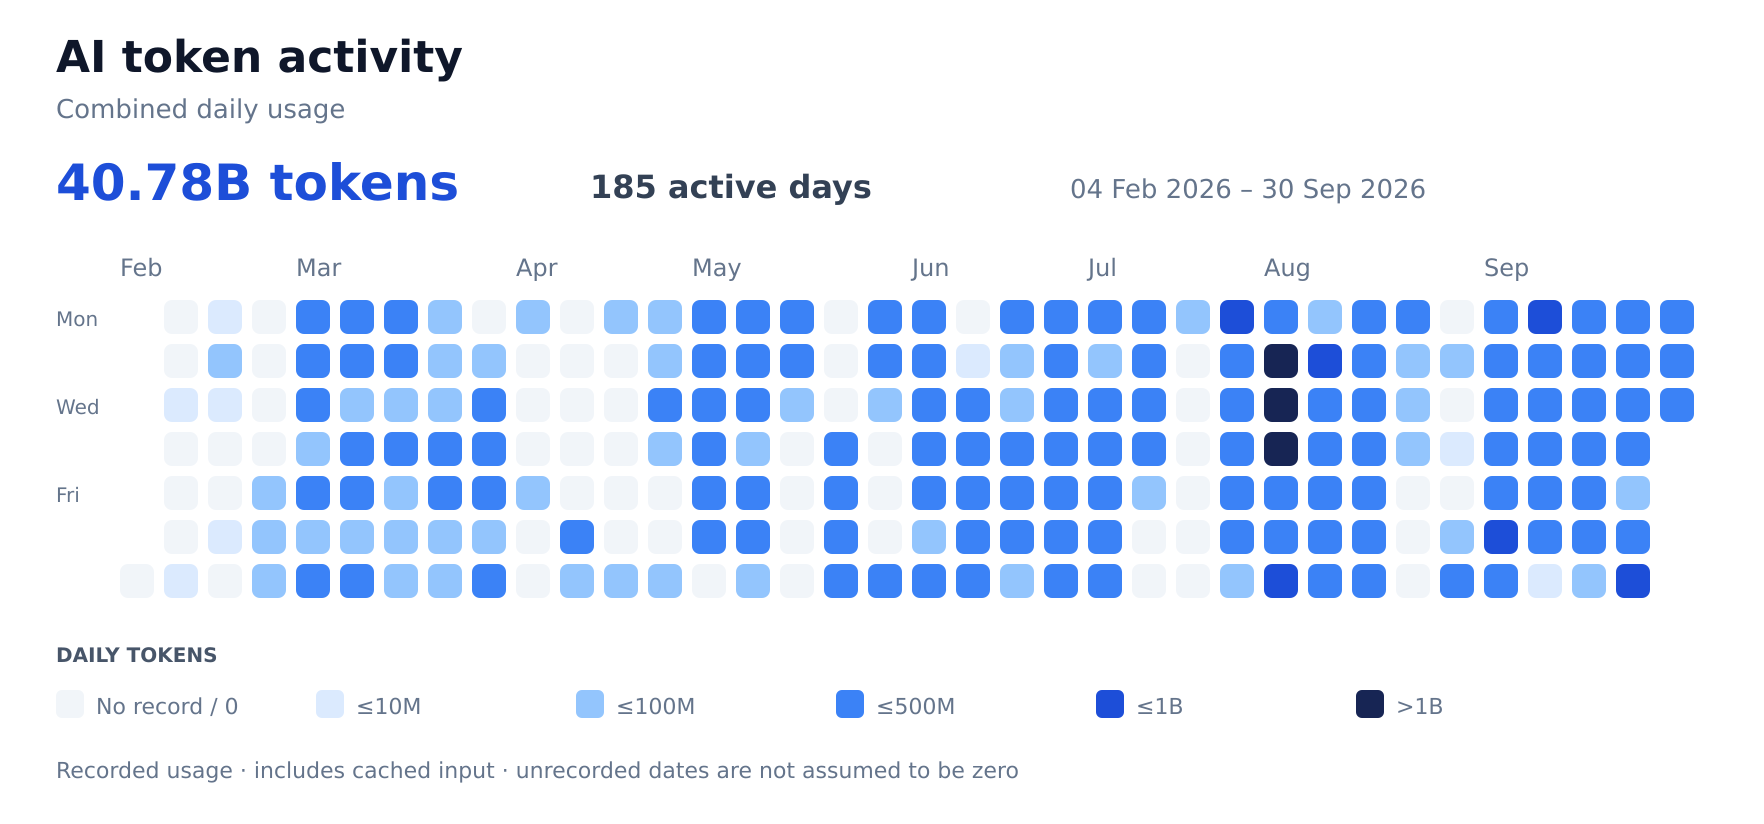
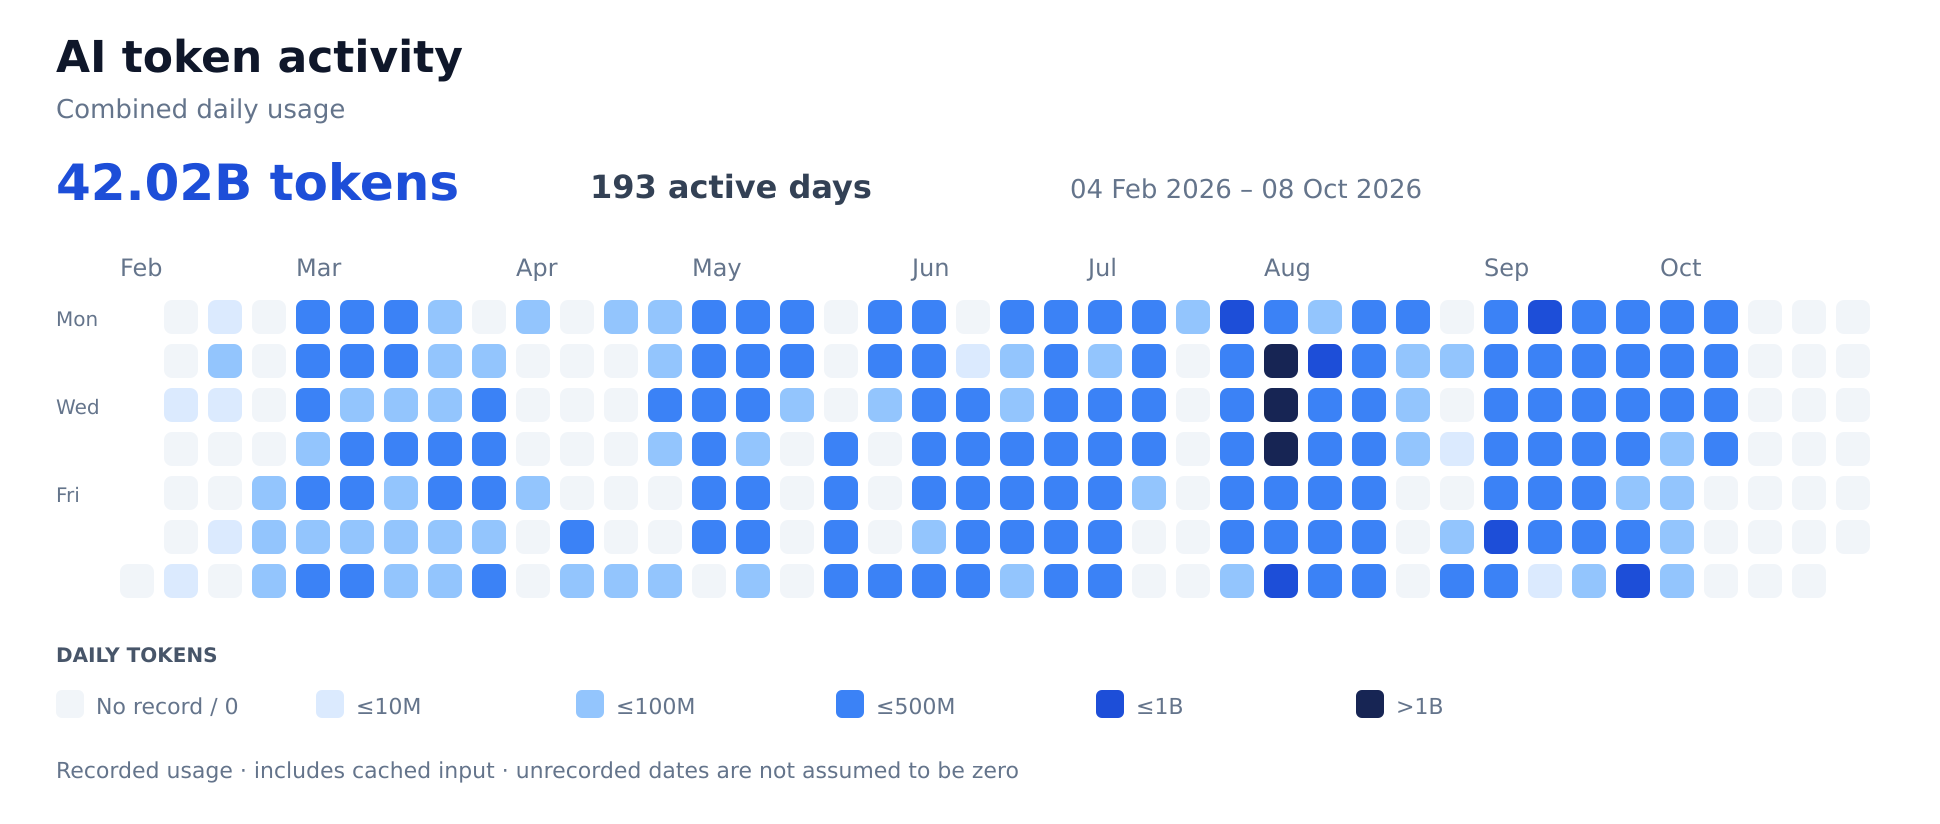
[MSC-121] Record task usage and extend the token heatmap without altering history

diff --git a/guides/project-history/myscoutee/README.md b/guides/project-history/myscoutee/README.md
@@ -1,6 +1,6 @@
 # Restorable Project history
 
-Complete Project; 111 tasks. [Live Project](https://github.com/users/fssrepository/projects/2) · [Canonical complete backup](https://github.com/fssrepository/myscoutee-roadmap/tree/master/guides/project-history/myscoutee).
+Historical Project snapshot: 111 tasks. [Live Project](https://github.com/users/fssrepository/projects/2) · [Canonical complete backup](https://github.com/fssrepository/myscoutee-roadmap/tree/master/guides/project-history/myscoutee).
 
 `project.json` preserves full issue bodies, statuses, typed field values and views. `measurements.json` preserves model/token/cost/time components and assumptions. `commit-map.json` links original and task-prefixed commit IDs. CSV/JSON provide convenient presentation exports. Recorded root intervals are retained in compressed JSON for timing reconstruction; there are no private chat texts.
 
@@ -21,3 +21,11 @@ Set `GITHUB_PROJECT_TOKEN` in your local shell to a credential with Projects wri
 If issues were deleted too, set `GITHUB_REPOSITORY_TOKEN` to an issue-write credential and add `--recreate-missing-issues`. The tracker repository must exist. Recreated issues may receive new issue numbers; stable task IDs remain. Historical execution dates remain in fields, while GitHub creation/closure timestamps reflect restoration.
 
 Repository associations are included in `project.json`. Set `GITHUB_REPOSITORY_TOKEN` (or a suitable `GITHUB_TOKEN`) during restoration to reconnect them automatically. Separate Project-write and repository credentials are supported. Comments, automations and permission grants are outside this reconstruction. Read [METHOD.md](METHOD.md) for estimates, unknown values and measurement boundaries. Git versions these files; no dated folder is needed.
+
+## Subsequent task measurements
+
+The October 9 MSC-120/121 token update is retained in the existing
+`measurements.json` `post_control_task_usage` ledger and in the live Project.
+The 111-task restoration snapshot and its calibration totals remain historical;
+they do not claim to include the later task bodies or statuses. Mixed-session
+attribution and exact measurement cutoffs are recorded beside each total.

diff --git a/README.md b/README.md
@@ -28,13 +28,13 @@ counted once; the historical account control and September-30 heatmap stay froze
 
 ## Measured token activity
 
-**40,781,240,381 tokens** in the combined daily record, through September 30, 2026. Darker blues indicate higher daily usage.
+**42,021,772,157 tokens** in the combined daily record, through October 8, 2026. Darker blues indicate higher daily usage.
 
 ![Combined daily AI token usage, shown as a blue calendar heatmap](guides/project-history/media/token-activity.png)
 
 [SVG](guides/project-history/media/token-activity.svg) · [PNG](guides/project-history/media/token-activity.png) · [Anonymous daily totals](guides/project-history/account-coverage.json) · [Regenerate the chart](guides/project-history/HEATMAP.md)
 
-This measured usage total is separate from the estimated task allocation above. Additional measurements may already overlap local task evidence, so they are not added again to task budgets, activity hours or API-equivalent costs. The chart uses combined daily totals. Supporting JSON preserves the input series using account-name initials only; full account identifiers are not published.
+This measured usage total is separate from the estimated task allocation above. Additional measurements may already overlap local task evidence, so they are not added again to task budgets, activity hours or API-equivalent costs. The chart preserves every recorded value through September 30 and appends October 1–8 from the available account `r` record; newer records for the other two accounts are unavailable. October 9 is not yet reported. The chart uses combined daily totals. Supporting JSON preserves the input series using account-name initials only; full account identifiers are not published.
 
 ## Restore from Git
 

diff --git a/guides/project-history/README.md b/guides/project-history/README.md
@@ -28,13 +28,13 @@ counted once; the historical account control and September-30 heatmap stay froze
 
 ## Measured token activity
 
-**40,781,240,381 tokens** in the combined daily record, through September 30, 2026. Darker blues indicate higher daily usage.
+**42,021,772,157 tokens** in the combined daily record, through October 8, 2026. Darker blues indicate higher daily usage.
 
 ![Combined daily AI token usage, shown as a blue calendar heatmap](media/token-activity.png)
 
 [SVG](media/token-activity.svg) · [PNG](media/token-activity.png) · [Anonymous daily totals](account-coverage.json) · [Regenerate the chart](HEATMAP.md)
 
-This measured usage total is separate from the estimated task allocation above. Additional measurements may already overlap local task evidence, so they are not added again to task budgets, activity hours or API-equivalent costs. The chart uses combined daily totals. Supporting JSON preserves the input series using account-name initials only; full account identifiers are not published.
+This measured usage total is separate from the estimated task allocation above. Additional measurements may already overlap local task evidence, so they are not added again to task budgets, activity hours or API-equivalent costs. The chart preserves every recorded value through September 30 and appends October 1–8 from the available account `r` record; newer records for the other two accounts are unavailable. October 9 is not yet reported. The chart uses combined daily totals. Supporting JSON preserves the input series using account-name initials only; full account identifiers are not published.
 
 ## Restore from Git
 

diff --git a/guides/project-history/HEATMAP.md b/guides/project-history/HEATMAP.md
@@ -1,7 +1,7 @@
 # Combined token activity
 
 The README chart is generated from `account-coverage.json`. It shows combined
-daily tokens, including cached input, from February through September 2026.
+daily tokens, including cached input, from February through October 8, 2026.
 It does not split the presentation by account or allocate usage to projects.
 
 The same JSON preserves the daily input series under the account-name initials
@@ -23,5 +23,11 @@ missing records do not establish that no work occurred.
 
 The chart is a measured usage inventory, independent of task estimates. Do not
 add its total on top of task budgets: session-derived task estimates may
-already include the same usage. New work is recorded separately in its task;
-it does not silently alter this frozen daily snapshot.
+already include the same usage. Task usage is recorded separately and is never summed into this daily ledger.
+
+The October 9 refresh preserves all original account and combined rows through
+September 30 byte-for-value, then appends the available account `r` daily rows
+for October 1–8. No fresh rows for `m` or `s` are available; missing coverage is
+not zero usage. A later account report revised September 30, but that revision
+is explicitly recorded as excluded in `coverage_notes` to preserve the requested
+historical baseline. October 9 has no account daily bucket yet.
